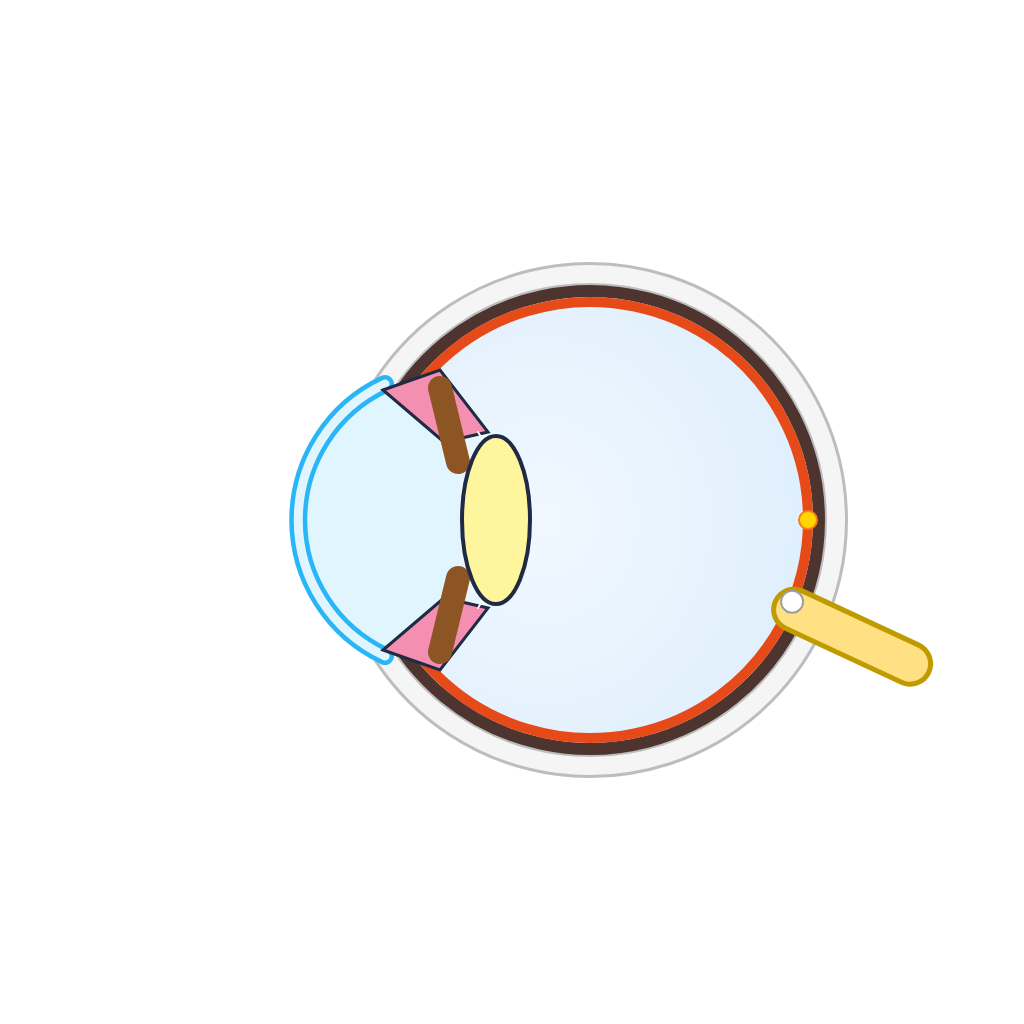
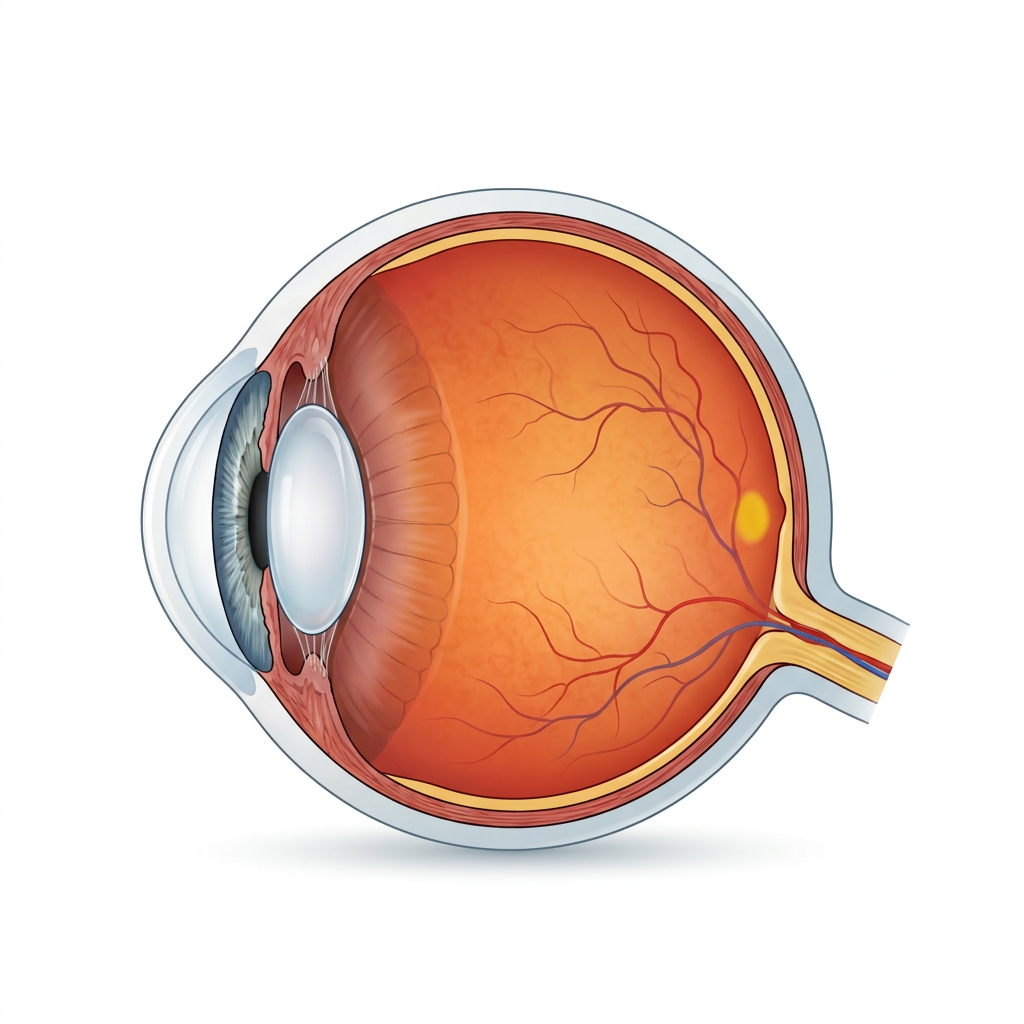
Replace the rough vector pictures the app actually shows with rendered illustrations
Used by the app (checked against the slot order of build-objek-foto): sistem-urinaria
p07, tulang-rusuk p07, mata-penampang p02, reproduksi-pria p02. Rendered with
gemini-ref.mjs from the layout of an approved picture plus the style of another
organ's illustration; old vectors kept as *.lama2.png. Reproduction: the first
candidates showed external genitalia and were rejected; the installed one is
internal organs only.

CLAUDE.md documents the per-object `views` policy (gen.mjs, galeri, montage follow
image-results/_slots.json: 1952 slots expected, 140 archived).

diff --git a/osn-app/image-results/_galeri.html b/osn-app/image-results/_galeri.html
@@ -1000,7 +1000,7 @@ figcaption span{color:#fff;border-radius:99px;padding:1px 8px;font-size:12px}sma
 <figcaption><b>p09-ilustrasi-kiri</b> <span style="background:#16a34a">lolos</span><small>Lolos (perlu paraf guru IPA): bola mata dengan 6 otot penggerak, saraf optik di belakang; penampang kornea, iris, lensa, retina, badan kaca.</small></figcaption></figure><figure><a href="ipa/02-tubuh-manusia/mata/p10-ilustrasi-kanan.png" target="_blank"><img loading="lazy" src="ipa/02-tubuh-manusia/mata/p10-ilustrasi-kanan.png" alt="mata p10-ilustrasi-kanan"></a>
 <figcaption><b>p10-ilustrasi-kanan</b> <span style="background:#16a34a">lolos</span><small>Lolos (perlu paraf guru IPA): bola mata dengan 6 otot penggerak, saraf optik di belakang; penampang kornea, iris, lensa, retina, badan kaca.</small></figcaption></figure></div></details></section><section><h2>mata-penampang <em>ipa/02-tubuh-manusia/mata-penampang</em> <span class="cnt">4/4 terisi</span></h2><div class="grid"><figure><a href="ipa/02-tubuh-manusia/mata-penampang/p01-realistis-depan.png" target="_blank"><img loading="lazy" src="ipa/02-tubuh-manusia/mata-penampang/p01-realistis-depan.png" alt="mata-penampang p01-realistis-depan"></a>
 <figcaption><b>p01-realistis-depan</b> <span style="background:#16a34a">lolos</span><small>Gambar VEKTOR (SVG→PNG via image-prompts/_src/vektor-ipa.mjs), bukan Gemini: geometri dihitung kode (versi Gemini gagal berulang: teks salah eja / objek salah). Penampang mendatar bola mata: kornea (kubah biru muda, menyambung ke sklera), bilik depan berisi humor akuos (biru sangat pucat), iris (cokelat) dengan celah pupil, lensa bikonveks (kuning pucat) ditahan badan siliar (merah muda) + ligamen penggantung (garis putih tipis), humor vitreus bening, retina (jingga-merah) melapisi bagian belakang, bintik kuning/fovea (kuning) TEPAT pada sumbu lensa, bintik buta (putih) tempat saraf optik (kuning) keluar di sisi hidung sedikit di bawah sumbu, koroid (cokelat tua), sklera (putih). Tanpa callout; ruang di belakang lensa BENING (humor vitreus), bukan terisi merah. Tanpa teks. Diperiksa visual. Gambar organ perlu ditinjau guru IPA sebelum rilis.</small></figcaption></figure><figure><a href="ipa/02-tubuh-manusia/mata-penampang/p02-ilustrasi-depan.png" target="_blank"><img loading="lazy" src="ipa/02-tubuh-manusia/mata-penampang/p02-ilustrasi-depan.png" alt="mata-penampang p02-ilustrasi-depan"></a>
-<figcaption><b>p02-ilustrasi-depan</b> <span style="background:#16a34a">lolos</span><small>Gambar VEKTOR (SVG→PNG via image-prompts/_src/vektor-ipa.mjs), bukan Gemini: geometri dihitung kode (versi Gemini gagal berulang: teks salah eja / objek salah). Penampang mendatar bola mata: kornea (kubah biru muda, menyambung ke sklera), bilik depan berisi humor akuos (biru sangat pucat), iris (cokelat) dengan celah pupil, lensa bikonveks (kuning pucat) ditahan badan siliar (merah muda) + ligamen penggantung (garis putih tipis), humor vitreus bening, retina (jingga-merah) melapisi bagian belakang, bintik kuning/fovea (kuning) TEPAT pada sumbu lensa, bintik buta (putih) tempat saraf optik (kuning) keluar di sisi hidung sedikit di bawah sumbu, koroid (cokelat tua), sklera (putih). Tanpa callout. Tanpa teks. Diperiksa visual. Gambar organ perlu ditinjau guru IPA sebelum rilis.</small></figcaption></figure><figure><a href="ipa/02-tubuh-manusia/mata-penampang/p03-penampang-belah.png" target="_blank"><img loading="lazy" src="ipa/02-tubuh-manusia/mata-penampang/p03-penampang-belah.png" alt="mata-penampang p03-penampang-belah"></a>
+<figcaption><b>p02-ilustrasi-depan</b> <span style="background:#16a34a">lolos</span><small>Penampang bola mata: kornea, iris dan pupil, lensa dengan badan siliaris, retina dengan bintik kuning dan bintik buta tempat saraf optik keluar, koroid, sklera. Ilustrasi buku teks dirender Gemini (gemini-ref.mjs) dari panduan tata letak gambar yang sudah lolos review + gaya garis tegas/warna datar dari ilustrasi organ lain; menggantikan gambar vektor datar yang kasar. Tanpa teks. Jumlah dan hubungan bagian dicek manual. Perlu paraf guru IPA (organ).</small></figcaption></figure><figure><a href="ipa/02-tubuh-manusia/mata-penampang/p03-penampang-belah.png" target="_blank"><img loading="lazy" src="ipa/02-tubuh-manusia/mata-penampang/p03-penampang-belah.png" alt="mata-penampang p03-penampang-belah"></a>
 <figcaption><b>p03-penampang-belah</b> <span style="background:#16a34a">lolos</span><small>Gambar VEKTOR (SVG→PNG via image-prompts/_src/vektor-ipa.mjs), bukan Gemini: geometri dihitung kode (versi Gemini gagal berulang: teks salah eja / objek salah). Penampang mendatar bola mata: kornea (kubah biru muda, menyambung ke sklera), bilik depan berisi humor akuos (biru sangat pucat), iris (cokelat) dengan celah pupil, lensa bikonveks (kuning pucat) ditahan badan siliar (merah muda) + ligamen penggantung (garis putih tipis), humor vitreus bening, retina (jingga-merah) melapisi bagian belakang, bintik kuning/fovea (kuning) TEPAT pada sumbu lensa, bintik buta (putih) tempat saraf optik (kuning) keluar di sisi hidung sedikit di bawah sumbu, koroid (cokelat tua), sklera (putih). 14 callout kosong. Tanpa teks. Diperiksa visual. Gambar organ perlu ditinjau guru IPA sebelum rilis.</small></figcaption></figure><figure><a href="ipa/02-tubuh-manusia/mata-penampang/p04-penampang-transparan.png" target="_blank"><img loading="lazy" src="ipa/02-tubuh-manusia/mata-penampang/p04-penampang-transparan.png" alt="mata-penampang p04-penampang-transparan"></a>
 <figcaption><b>p04-penampang-transparan</b> <span style="background:#16a34a">lolos</span><small>Lolos (perlu paraf guru IPA): kornea, iris, lensa, badan siliar, retina, bintik kuning, bintik buta, saraf optik di belakang.</small></figcaption></figure></div></section><section><h2>nefron <em>ipa/02-tubuh-manusia/nefron</em> <span class="cnt">4/4 terisi</span></h2><div class="grid"><figure><a href="ipa/02-tubuh-manusia/nefron/p01-realistis-depan.png" target="_blank"><img loading="lazy" src="ipa/02-tubuh-manusia/nefron/p01-realistis-depan.png" alt="nefron p01-realistis-depan"></a>
 <figcaption><b>p01-realistis-depan</b> <span style="background:#16a34a">lolos</span><small>Lolos (perlu paraf guru IPA): glomerulus di dalam kapsul Bowman, tubulus proksimal, lengkung Henle, tubulus distal, saluran pengumpul, kapiler.</small></figcaption></figure><figure><a href="ipa/02-tubuh-manusia/nefron/p02-ilustrasi-depan.png" target="_blank"><img loading="lazy" src="ipa/02-tubuh-manusia/nefron/p02-ilustrasi-depan.png" alt="nefron p02-ilustrasi-depan"></a>
@@ -1068,7 +1068,7 @@ figcaption span{color:#fff;border-radius:99px;padding:1px 8px;font-size:12px}sma
 <figcaption><b>p03-penampang-belah</b> <span style="background:#16a34a">lolos</span><small>Gambar VEKTOR (image-prompts/_src/vektor-bio.mjs: SVG -> PNG), bukan Gemini; bentuk, jumlah bagian, dan warna digambar dari spesifikasi katalog (penampang.mjs), bukan ditebak model. Tiga pembuluh, masing-masing penampang lintang bulat + potongan memanjang. Arteri: lapisan luar krem, otot-elastis tebal merah muda, endotel kuning muda, lumen kecil bulat berisi darah merah. Vena: lapisan luar, otot tipis abu-biru, lumen lebar pipih berisi darah kebiruan, dua katup putih searah aliran. Kapiler: dinding satu lapis sel pipih merah muda, eritrosit berbaris satu-satu. Tidak berskala antar pembuluh (kapiler sebenarnya jauh lebih kecil). Gaya skematik datar, batas bagian putus-putus, lingkaran callout kosong untuk label yang ditambahkan aplikasi nanti. Latar putih polos, tanpa teks, tidak terpotong. Sebaiknya ditandatangani guru IPA sebelum rilis.</small></figcaption></figure><figure><a href="ipa/02-tubuh-manusia/pembuluh-darah-set/p04-penampang-transparan.png" target="_blank"><img loading="lazy" src="ipa/02-tubuh-manusia/pembuluh-darah-set/p04-penampang-transparan.png" alt="pembuluh-darah-set p04-penampang-transparan"></a>
 <figcaption><b>p04-penampang-transparan</b> <span style="background:#16a34a">lolos</span><small>Lolos: arteri berdinding tebal, vena berdinding tipis dengan katup, kapiler selapis sel dengan sel darah merah berbaris.</small></figcaption></figure></div></section><section><h2>reproduksi-pria <em>ipa/02-tubuh-manusia/reproduksi-pria</em> <span class="cnt">4/4 terisi</span></h2><div class="grid"><figure><a href="ipa/02-tubuh-manusia/reproduksi-pria/p01-realistis-depan.png" target="_blank"><img loading="lazy" src="ipa/02-tubuh-manusia/reproduksi-pria/p01-realistis-depan.png" alt="reproduksi-pria p01-realistis-depan"></a>
 <figcaption><b>p01-realistis-depan</b> <span style="background:#16a34a">lolos</span><small>Model anatomis klinis sesuai prompt: testis oval dengan epididimis berkelok di sampingnya, vas deferens melengkung ke atas, sepasang vesikula seminalis (2 lobus, jumlah benar), prostat tunggal, dan sedikit bagian kandung kemih. Tidak ada genitalia eksternal maupun tubuh — sesuai ketentuan CLAUDE.md bahwa organ reproduksi harus berupa model/diagram klinis, bukan foto tubuh. Tetap perlu diverifikasi/disetujui guru sains sebelum rilis sesuai kebijakan untuk organ reproduksi.</small></figcaption></figure><figure><a href="ipa/02-tubuh-manusia/reproduksi-pria/p02-ilustrasi-depan.png" target="_blank"><img loading="lazy" src="ipa/02-tubuh-manusia/reproduksi-pria/p02-ilustrasi-depan.png" alt="reproduksi-pria p02-ilustrasi-depan"></a>
-<figcaption><b>p02-ilustrasi-depan</b> <span style="background:#16a34a">lolos</span><small>Gambar vektor skematik klinis (vektor-ipa.mjs, bukan Gemini), hanya organ dalam, tanpa alat kelamin luar atau tubuh. Kandung kemih (potongan, kuning pucat) dengan dua ureter, prostat (oranye) dilintasi uretra, sepasang vesikula seminalis (kuning, di belakang dasar kandung kemih), sepasang vas deferens (biru) melengkung melewati ureter lalu ke belakang kandung kemih, sepasang testis dengan epididimis (biru muda) di sisi luar. Tanpa teks. Perlu paraf guru IPA (organ reproduksi).</small></figcaption></figure><figure><a href="ipa/02-tubuh-manusia/reproduksi-pria/p03-penampang-belah.png" target="_blank"><img loading="lazy" src="ipa/02-tubuh-manusia/reproduksi-pria/p03-penampang-belah.png" alt="reproduksi-pria p03-penampang-belah"></a>
+<figcaption><b>p02-ilustrasi-depan</b> <span style="background:#16a34a">lolos</span><small>Hanya organ dalam (klinis, tanpa alat kelamin luar, tanpa tubuh): potongan kandung kemih dengan dua ureter, prostat, dua vesikula seminalis, dua vas deferens melengkung di atas ureter, dua testis dengan epididimis; uretra hanya tunggul pendek di bawah prostat. Dua percobaan pertama ditolak karena menampilkan alat kelamin luar. Ilustrasi buku teks dirender Gemini (gemini-ref.mjs) dari panduan tata letak gambar yang sudah lolos review + gaya garis tegas/warna datar dari ilustrasi organ lain; menggantikan gambar vektor datar yang kasar. Tanpa teks. Jumlah dan hubungan bagian dicek manual. Perlu paraf guru IPA (organ).</small></figcaption></figure><figure><a href="ipa/02-tubuh-manusia/reproduksi-pria/p03-penampang-belah.png" target="_blank"><img loading="lazy" src="ipa/02-tubuh-manusia/reproduksi-pria/p03-penampang-belah.png" alt="reproduksi-pria p03-penampang-belah"></a>
 <figcaption><b>p03-penampang-belah</b> <span style="background:#16a34a">lolos</span><small>Gambar vektor skematik klinis (vektor-ipa.mjs), hanya organ dalam, tanpa alat kelamin luar atau tubuh. Kandung kemih (potongan, kuning pucat) dengan dua ureter, prostat (oranye) dilintasi uretra, sepasang vesikula seminalis (kuning), sepasang vas deferens (biru) melengkung melewati ureter lalu ke belakang kandung kemih, sepasang testis dengan epididimis (biru muda) di sisi luar; testis kiri gambar dibelah menunjukkan lobulus dengan tubulus seminiferus berkelok dan rete testis. Nol teks, lingkaran kosong untuk label. Perlu paraf guru IPA (organ reproduksi).</small></figcaption></figure><figure><a href="ipa/02-tubuh-manusia/reproduksi-pria/p04-penampang-transparan.png" target="_blank"><img loading="lazy" src="ipa/02-tubuh-manusia/reproduksi-pria/p04-penampang-transparan.png" alt="reproduksi-pria p04-penampang-transparan"></a>
 <figcaption><b>p04-penampang-transparan</b> <span style="background:#16a34a">lolos</span><small>Gambar vektor skematik klinis (vektor-ipa.mjs), hanya organ dalam, tanpa alat kelamin luar atau tubuh, tanpa kapsul pembungkus. Kandung kemih, prostat, dan testis semi-transparan sehingga ureter, uretra, saluran ejakulasi, dan tubulus seminiferus terlihat; vesikula seminalis, vas deferens, epididimis. Nol teks, lingkaran kosong untuk label. Perlu paraf guru IPA (organ reproduksi).</small></figcaption></figure></div></section><section><h2>reproduksi-wanita <em>ipa/02-tubuh-manusia/reproduksi-wanita</em> <span class="cnt">4/4 terisi</span></h2><div class="grid"><figure><a href="ipa/02-tubuh-manusia/reproduksi-wanita/p02-realistis-depan.png" target="_blank"><img loading="lazy" src="ipa/02-tubuh-manusia/reproduksi-wanita/p02-realistis-depan.png" alt="reproduksi-wanita p02-realistis-depan"></a>
 <figcaption><b>p02-realistis-depan</b> <span style="background:#16a34a">lolos</span><small>Lolos (perlu paraf guru IPA): rahim, tuba falopi dengan fimbria, ovarium dengan folikel, serviks, vagina; diagram klinis.</small></figcaption></figure><figure><a href="ipa/02-tubuh-manusia/reproduksi-wanita/p07-ilustrasi-depan.png" target="_blank"><img loading="lazy" src="ipa/02-tubuh-manusia/reproduksi-wanita/p07-ilustrasi-depan.png" alt="reproduksi-wanita p07-ilustrasi-depan"></a>
@@ -1116,7 +1116,7 @@ figcaption span{color:#fff;border-radius:99px;padding:1px 8px;font-size:12px}sma
 <figcaption><b>p09-ilustrasi-kiri</b> <span style="background:#16a34a">lolos</span><small>Lolos (perlu paraf guru IPA): laring, trakea bercincin, bronkus, paru kanan 3 lobus / kiri 2 lobus, diafragma.</small></figcaption></figure><figure><a href="ipa/02-tubuh-manusia/sistem-pernapasan/p10-ilustrasi-kanan.png" target="_blank"><img loading="lazy" src="ipa/02-tubuh-manusia/sistem-pernapasan/p10-ilustrasi-kanan.png" alt="sistem-pernapasan p10-ilustrasi-kanan"></a>
 <figcaption><b>p10-ilustrasi-kanan</b> <span style="background:#16a34a">lolos</span><small>Lolos (perlu paraf guru IPA): profil kanan menampilkan 2 fisura (3 lobus) pada paru kanan, konsisten dengan p09.</small></figcaption></figure></div></details></section><section><h2>sistem-urinaria <em>ipa/02-tubuh-manusia/sistem-urinaria</em> <span class="cnt">4/4 terisi</span></h2><div class="grid"><figure><a href="ipa/02-tubuh-manusia/sistem-urinaria/p02-realistis-depan.png" target="_blank"><img loading="lazy" src="ipa/02-tubuh-manusia/sistem-urinaria/p02-realistis-depan.png" alt="sistem-urinaria p02-realistis-depan"></a>
 <figcaption><b>p02-realistis-depan</b> <span style="background:#16a34a">lolos</span><small>Lolos (perlu paraf guru IPA): ginjal dengan kelenjar adrenal, ureter, kandung kemih, uretra; posisi aorta/vena kava benar.</small></figcaption></figure><figure><a href="ipa/02-tubuh-manusia/sistem-urinaria/p07-ilustrasi-depan.png" target="_blank"><img loading="lazy" src="ipa/02-tubuh-manusia/sistem-urinaria/p07-ilustrasi-depan.png" alt="sistem-urinaria p07-ilustrasi-depan"></a>
-<figcaption><b>p07-ilustrasi-depan</b> <span style="background:#16a34a">lolos</span><small>Gambar vektor datar (vektor-ipa.mjs, bukan Gemini). Tampak depan: ginjal kiri orang lebih tinggi (di sisi kanan gambar), aorta merah di sisi kanan gambar dan vena kava inferior biru di sisi kiri gambar, vena ginjal kiri melintas di depan aorta, kelenjar adrenal di kutub atas, ureter kuning turun ke kandung kemih, uretra keluar dari bawah. Perlu paraf guru IPA (organ).</small></figcaption></figure><figure><a href="ipa/02-tubuh-manusia/sistem-urinaria/p11-penampang-belah.png" target="_blank"><img loading="lazy" src="ipa/02-tubuh-manusia/sistem-urinaria/p11-penampang-belah.png" alt="sistem-urinaria p11-penampang-belah"></a>
+<figcaption><b>p07-ilustrasi-depan</b> <span style="background:#16a34a">lolos</span><small>Sistem urinaria tampak depan: dua ginjal berbentuk kacang dengan kelenjar adrenal di atas, aorta (merah) dan vena kava inferior (biru) di antara ginjal beserta cabang pembuluh ginjal, dua ureter turun ke kandung kemih, uretra keluar di bawah; semua bagian tersambung. Ilustrasi buku teks dirender Gemini (gemini-ref.mjs) dari panduan tata letak gambar yang sudah lolos review + gaya garis tegas/warna datar dari ilustrasi organ lain; menggantikan gambar vektor datar yang kasar. Tanpa teks. Jumlah dan hubungan bagian dicek manual. Perlu paraf guru IPA (organ).</small></figcaption></figure><figure><a href="ipa/02-tubuh-manusia/sistem-urinaria/p11-penampang-belah.png" target="_blank"><img loading="lazy" src="ipa/02-tubuh-manusia/sistem-urinaria/p11-penampang-belah.png" alt="sistem-urinaria p11-penampang-belah"></a>
 <figcaption><b>p11-penampang-belah</b> <span style="background:#16a34a">lolos</span><small>Gambar vektor datar (vektor-ipa.mjs). Ginjal kiri orang (kanan gambar) dibelah memanjang: korteks (batas putus-putus), piramida medula bergaris, kolumna ginjal, kaliks kecil, pelvis ginjal kuning; kandung kemih dibuka: dinding dalam berlipat, urine kuning pucat, dua muara ureter dan satu muara uretra (segitiga trigonum putus-putus). Aorta merah kanan gambar, vena kava biru kiri gambar. Nol teks, 11 lingkaran kosong untuk label. Perlu paraf guru IPA (organ).</small></figcaption></figure><figure><a href="ipa/02-tubuh-manusia/sistem-urinaria/p12-penampang-transparan.png" target="_blank"><img loading="lazy" src="ipa/02-tubuh-manusia/sistem-urinaria/p12-penampang-transparan.png" alt="sistem-urinaria p12-penampang-transparan"></a>
 <figcaption><b>p12-penampang-transparan</b> <span style="background:#16a34a">lolos</span><small>Gambar vektor datar (vektor-ipa.mjs). Kedua ginjal tembus pandang menampakkan korteks, piramida medula, kaliks dan pelvis; kandung kemih tembus pandang dengan batas permukaan urine putus-putus. Aorta merah kanan gambar, vena kava biru kiri gambar. Nol teks, lingkaran kosong untuk label. Perlu paraf guru IPA (organ).</small></figcaption></figure></div><details class="arsip"><summary>8 gambar tidak dipakai lagi (tampak yang tidak dibutuhkan, disimpan sebagai arsip)</summary><div class="grid"><figure><a href="ipa/02-tubuh-manusia/sistem-urinaria/p01-realistis-turnaround.png" target="_blank"><img loading="lazy" src="ipa/02-tubuh-manusia/sistem-urinaria/p01-realistis-turnaround.png" alt="sistem-urinaria p01-realistis-turnaround"></a>
 <figcaption><b>p01-realistis-turnaround</b> <span style="background:#16a34a">lolos</span><small>Disusun otomatis dari p02, p03, p04, p05 (depan, belakang, kiri, kanan) yang sudah lolos review.</small></figcaption></figure><figure><a href="ipa/02-tubuh-manusia/sistem-urinaria/p03-realistis-belakang.png" target="_blank"><img loading="lazy" src="ipa/02-tubuh-manusia/sistem-urinaria/p03-realistis-belakang.png" alt="sistem-urinaria p03-realistis-belakang"></a>
@@ -1174,7 +1174,7 @@ figcaption span{color:#fff;border-radius:99px;padding:1px 8px;font-size:12px}sma
 <figcaption><b>p03-penampang-belah</b> <span style="background:#16a34a">lolos</span><small>Gambar vektor datar (vektor-ipa.mjs, bukan Gemini). Femur kanan tampak depan dibelah memanjang: kepala bulat di kanan atas menghadap ke tengah tubuh, leher, trokanter besar di lateral, batang, kondilus di bawah. Terlihat tulang kompak (gading, dinding batang tebal), tulang spons berpola sarang dengan sumsum merah di ujung-ujung, rongga sumsum kuning di tengah batang, selaput tulang (periosteum) garis merah muda, garis epifisis putus-putus putih, tulang rawan sendi biru muda di kepala dan kondilus, pembuluh nutrisi merah masuk ke dinding batang. Nol teks, 10 lingkaran kosong untuk label. Perlu paraf guru IPA (tulang).</small></figcaption></figure><figure><a href="ipa/02-tubuh-manusia/tulang-paha-penampang/p04-penampang-transparan.png" target="_blank"><img loading="lazy" src="ipa/02-tubuh-manusia/tulang-paha-penampang/p04-penampang-transparan.png" alt="tulang-paha-penampang p04-penampang-transparan"></a>
 <figcaption><b>p04-penampang-transparan</b> <span style="background:#16a34a">lolos</span><small>Gambar vektor datar (vektor-ipa.mjs). Femur utuh satu kesatuan (kepala, leher, trokanter, batang, kondilus) dengan permukaan semi-transparan: sumsum kuning di rongga batang, tulang spons + sumsum merah di ujung (batas putus-putus), tulang rawan sendi biru muda, periosteum, garis epifisis, pembuluh nutrisi. Nol teks, lingkaran kosong untuk label. Perlu paraf guru IPA (tulang).</small></figcaption></figure></div></section><section><h2>tulang-rusuk <em>ipa/02-tubuh-manusia/tulang-rusuk</em> <span class="cnt">2/2 terisi</span></h2><div class="grid"><figure><a href="ipa/02-tubuh-manusia/tulang-rusuk/p02-realistis-depan.png" target="_blank"><img loading="lazy" src="ipa/02-tubuh-manusia/tulang-rusuk/p02-realistis-depan.png" alt="tulang-rusuk p02-realistis-depan"></a>
 <figcaption><b>p02-realistis-depan</b> <span style="background:#16a34a">lolos</span><small>Regenerasi Gemini (percobaan ke-2, pakai field-f dengan instruksi jumlah rusuk eksplisit). Tampak depan: 12 pasang rusuk terhitung rapat, 7 sejati+kartilago sendiri ke sternum, 3 palsu berbagi kartilago, kartilago biru jelas. Diganti dari vektor (revisi gaya) ke foto sesuai arahan user.</small></figcaption></figure><figure><a href="ipa/02-tubuh-manusia/tulang-rusuk/p07-ilustrasi-depan.png" target="_blank"><img loading="lazy" src="ipa/02-tubuh-manusia/tulang-rusuk/p07-ilustrasi-depan.png" alt="tulang-rusuk p07-ilustrasi-depan"></a>
-<figcaption><b>p07-ilustrasi-depan</b> <span style="background:#16a34a">lolos</span><small>Gambar vektor datar (bukan Gemini) via vektor-ipa.mjs. Isi: 12 pasang rusuk (7 sejati menyambung ke tulang dada lewat tulang rawan biru, 3 palsu bersambung ke tulang rawan di atasnya, 2 melayang pendek), tulang dada (manubrium, badan, prosesus xifoid), 12 ruas tulang belakang dada. Tampak depan: rusuk 1-7 menyambung ke tulang dada, 8-10 menyambung ke tulang rawan di atasnya, 11-12 melayang. Perlu paraf guru IPA (organ/tulang).</small></figcaption></figure></div><details class="arsip"><summary>8 gambar tidak dipakai lagi (tampak yang tidak dibutuhkan, disimpan sebagai arsip)</summary><div class="grid"><figure><a href="ipa/02-tubuh-manusia/tulang-rusuk/p01-realistis-turnaround.png" target="_blank"><img loading="lazy" src="ipa/02-tubuh-manusia/tulang-rusuk/p01-realistis-turnaround.png" alt="tulang-rusuk p01-realistis-turnaround"></a>
+<figcaption><b>p07-ilustrasi-depan</b> <span style="background:#16a34a">lolos</span><small>Rongga dada: tulang dada (manubrium, badan, prosesus xifoid), rusuk sejati/palsu/melayang dengan tulang rawan kosta biru, ruas tulang belakang dada di belakang; sama dengan tata letak foto realistis p02 yang sudah lolos. Ilustrasi buku teks dirender Gemini (gemini-ref.mjs) dari panduan tata letak gambar yang sudah lolos review + gaya garis tegas/warna datar dari ilustrasi organ lain; menggantikan gambar vektor datar yang kasar. Tanpa teks. Jumlah dan hubungan bagian dicek manual. Perlu paraf guru IPA (organ).</small></figcaption></figure></div><details class="arsip"><summary>8 gambar tidak dipakai lagi (tampak yang tidak dibutuhkan, disimpan sebagai arsip)</summary><div class="grid"><figure><a href="ipa/02-tubuh-manusia/tulang-rusuk/p01-realistis-turnaround.png" target="_blank"><img loading="lazy" src="ipa/02-tubuh-manusia/tulang-rusuk/p01-realistis-turnaround.png" alt="tulang-rusuk p01-realistis-turnaround"></a>
 <figcaption><b>p01-realistis-turnaround</b> <span style="background:#16a34a">lolos</span><small>Disusun otomatis dari p02, p03, p04, p05 (depan, belakang, kiri, kanan) yang sudah lolos review.</small></figcaption></figure><figure><a href="ipa/02-tubuh-manusia/tulang-rusuk/p03-realistis-belakang.png" target="_blank"><img loading="lazy" src="ipa/02-tubuh-manusia/tulang-rusuk/p03-realistis-belakang.png" alt="tulang-rusuk p03-realistis-belakang"></a>
 <figcaption><b>p03-realistis-belakang</b> <span style="background:#16a34a">lolos</span><small>Regenerasi Gemini, tampak belakang: tulang belakang + rusuk dari sisi dalam terlihat rapat, beda jelas dari depan.</small></figcaption></figure><figure><a href="ipa/02-tubuh-manusia/tulang-rusuk/p04-realistis-kiri.png" target="_blank"><img loading="lazy" src="ipa/02-tubuh-manusia/tulang-rusuk/p04-realistis-kiri.png" alt="tulang-rusuk p04-realistis-kiri"></a>
 <figcaption><b>p04-realistis-kiri</b> <span style="background:#16a34a">lolos</span><small>Percobaan 1 (chained + field-f) GAGAL -- identik piksel dgn p02, rotasi tidak terjadi sama sekali. Rewrite standalone (deskripsi eksplisit bentuk oval memanjang dari samping, sternum di tepi kiri, tulang belakang di tepi kanan) berhasil: profil lateral sejati tercapai, bentuk jelas berbeda dari tampak depan (oval sempit vs barel lebar).</small></figcaption></figure><figure><a href="ipa/02-tubuh-manusia/tulang-rusuk/p05-realistis-kanan.png" target="_blank"><img loading="lazy" src="ipa/02-tubuh-manusia/tulang-rusuk/p05-realistis-kanan.png" alt="tulang-rusuk p05-realistis-kanan"></a>

diff --git a/CLAUDE.md b/CLAUDE.md
@@ -57,6 +57,7 @@ Six tiers per chapter (defined in `output/_MASTER-INDEX.md`): `campur` (50 Kab +
 Gemini image prompts for every visual object used in the soal (organs, animals, plants, cells, tools, planets, geometric solids…), and a results folder that the user fills with generated images for Claude to verify.
 
 - [osn-app/image-prompts/](osn-app/image-prompts/): one `.md` per object, generated from `_src/catalog-*.mjs` (object data) plus `_src/penampang.mjs` (cross-section parts and colors). **Never edit the `.md` files by hand.** Edit the source files, then run `node image-prompts/_src/gen.mjs` from `osn-app/`. Each file has A. Realistis, B. Ilustrasi, and, where interior parts matter, C. Penampang (cut-open schematic plus see-through, regions separated by dashed lines, empty callout circles for labels added later in the app). Every prompt: full body, no 3/4 angle, solid white or black background, no text.
+- **Views per object (`views` in the catalog).** The app only ever uses the front picture (ilustrasi-depan, realistis-depan as fallback), the side picture when the soal stem literally says samping/menyamping/tampak sisi/gurat sisi/sirip, and a labelled cut-open picture. A back view is never selected, and no organ soal asks for a side or back view. So organs get only the views they need: `views: ['depan']` for most organs, `['depan','kiri']` where the side view shows what the front cannot (tengkorak, otak), `['depan','belakang']` where the back does (kerangka-manusia, otot-lengan: triceps), `['depan','belakang','kiri']` for tulang-belakang (S-curve from the side, scoliosis from behind). Only one side view (kiri) is kept; the right view is a mirror. Slot numbers stay those of the full set (existing files, verdicts and the app keep working), the turnaround sheet only exists when all four views are wanted, `gen.mjs` writes the expected slots to `image-results/_slots.json`, and the gallery, `_STATUS.md` and the montage follow it; pictures of views no longer needed stay in the folder as archive (collapsed in the gallery). Add `views` to a new organ instead of generating all four views. For the brain the catalog `f` says LEFT/RIGHT = full side profile, so build-objek-foto leads with the lateral view.
 - [osn-app/image-results/](osn-app/image-results/): same folder tree, one folder per object, one slot per prompt: `pNN-<versi>-<tampak>.png` (the save path is printed under every prompt). Empty slots hold a `.svg` placeholder; running the generator deletes the placeholder once a `.png`/`.jpg`/`.webp` with the same name exists. `_STATUS.md` (generated) summarises filled and approved slots. `_review.json` holds review verdicts. It is the only file in this folder Claude edits by hand.
 
 ### Web sources & reference images (done per bab, in order IPA 01 → … → MTK 08)
